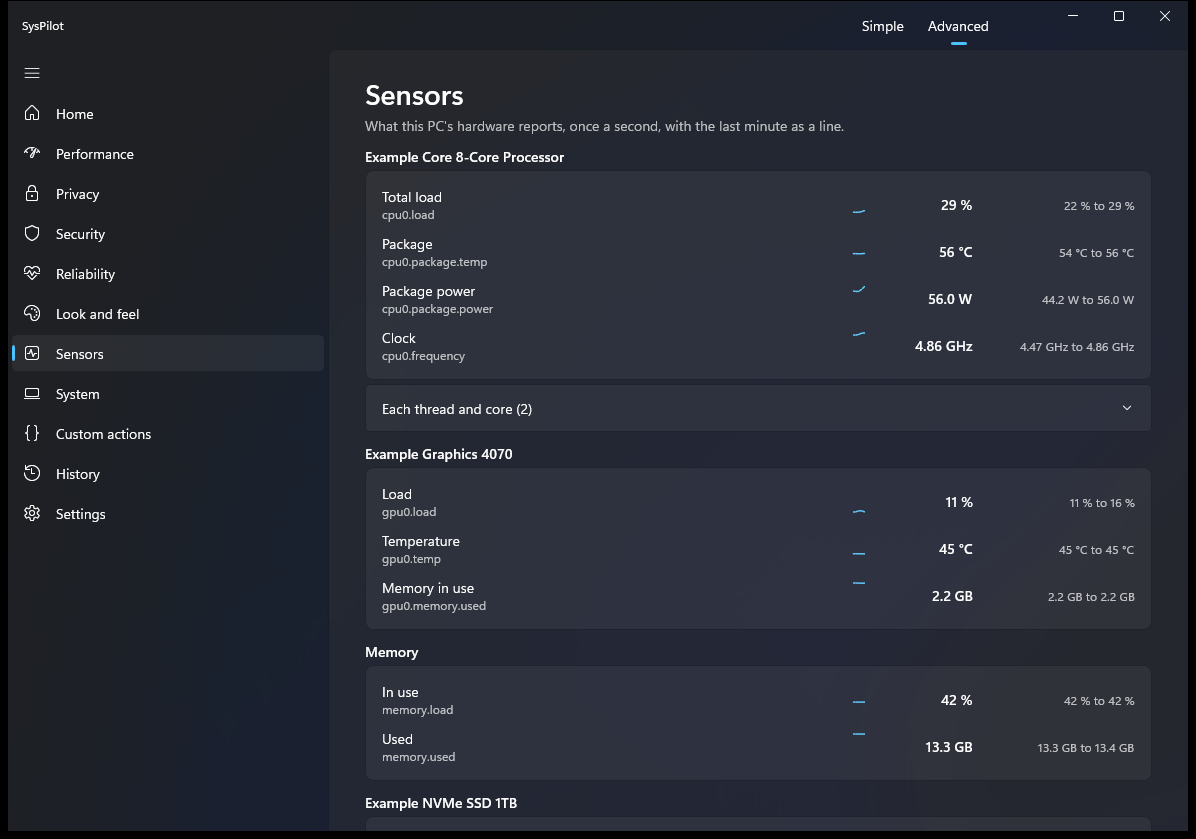
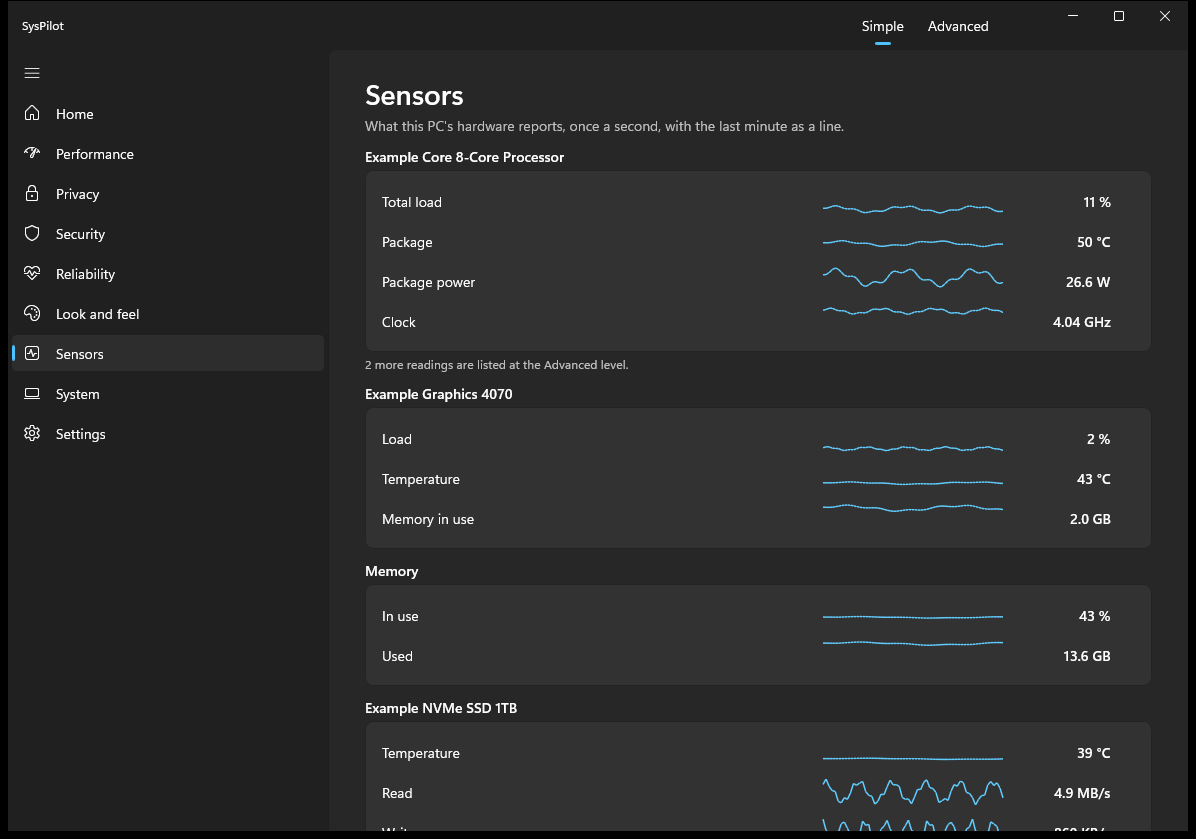
docs(readme): refresh the screenshots and show the Fans page
The Home and Sensors images were taken a few seconds after start, so
their charts were short stubs; they now show a full minute. The Fans
page gets its own image, from the demo of a validated board, with a
note that releases only show fans. All images come from the demo data.

diff --git a/README.md b/README.md
@@ -77,6 +77,12 @@ Windows refuses is shown as *Blocked by Windows*, with the reason. Changing
 anything needs an administrator; without one the app shows everything and
 offers to restart elevated.
 
+The Advanced level also has a Fans page: each fan's speed and duty, its curve
+and whether SysPilot follows it. Releases only show fans; following curves
+waits for a board to be validated (see [fan curves](docs/fan-curves.md)).
+
+![The Fans page with curves, from the demo of a validated board](docs/images/fans.png)
+
 `syspilot --demo` runs the app on made-up data without a service, to look
 around without changing anything.
 
